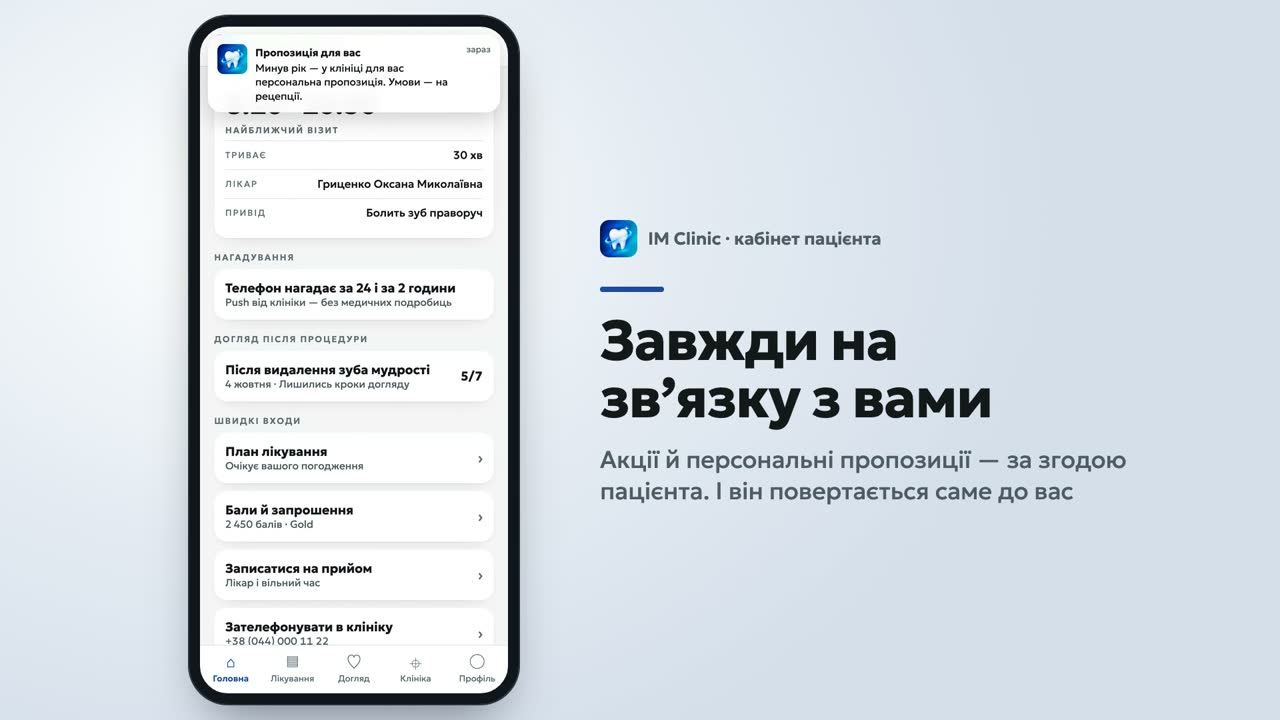
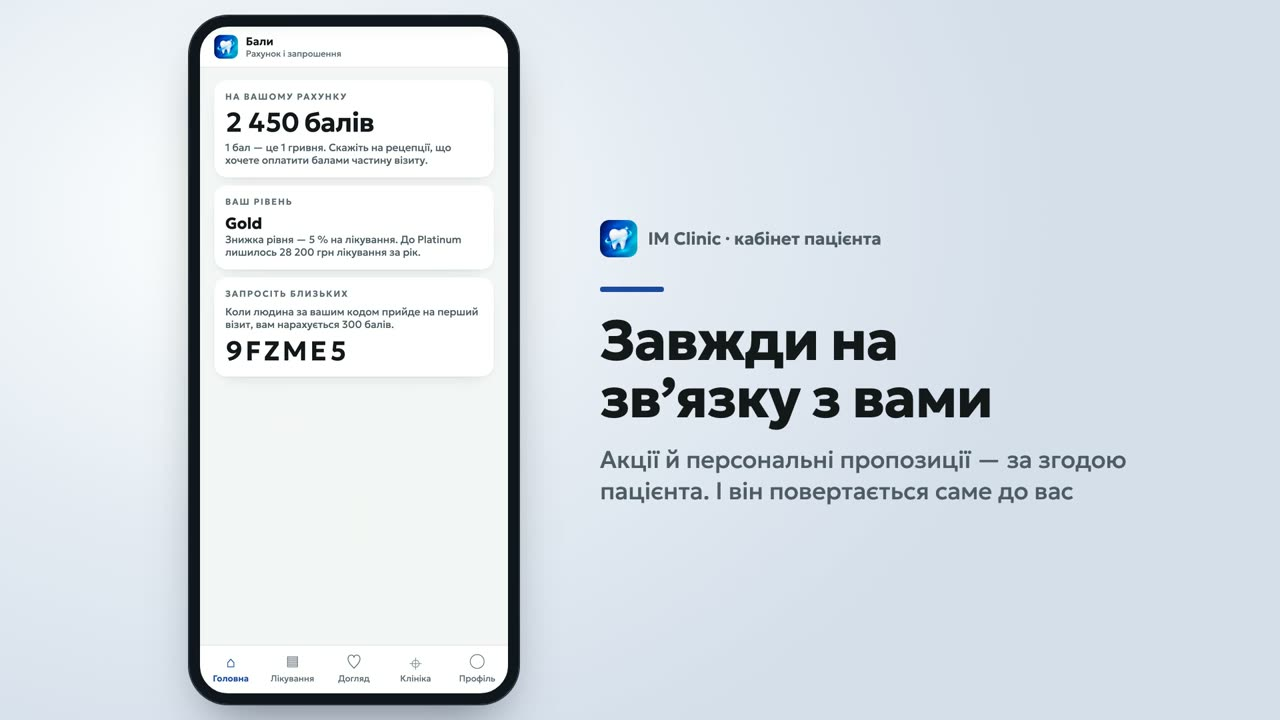
Промо IM Clinic: нові кліпи QR (планшет) і фінальної усмішки, озвучка 00–10, прев'ю 98-секундної версії

diff --git a/video/previews/README.md b/video/previews/README.md
@@ -1,6 +1,12 @@
 # Прев'ю промо IM Clinic (07.10.2026)
 
-Кадри з `work/im-clinic-promo.mp4` (92,5 с), 1280×720 JPEG.
+Кадри з `work/im-clinic-promo.mp4` (98,0 с), 1280×720 JPEG.
 
-- `0b-app`, `0c-push`, `3-visit`, `5-memo`, `6-plan` — екранні сцени, перезаписані `node record.mjs` після 0f51596: плашки «Демо» немає.
-- `8-street-mid`, `8-street-end` — фінал на вулиці. Це ще **старий** `clips/scene7.mp4`, без широкої усмішки: новий дубль у Higgsfield не згенеровано, бо в сесії не було доступу до браузера.
+- `0b-app`, `0c-push` — вступ: застосунок клініки, пуш пропозиції й бали.
+- `4-qr` — після процедури адміністраторка показує QR на планшеті, Анна сканує телефоном (`clips/qr.mp4`).
+- `5-tour` — застосунок після PIN: усі функції; `6-memo`, `7-plan` — памʼятка й план лікування.
+- `8-street-mid`, `8-street-end` — фінал на вулиці (`clips/scene7.mp4`).
+
+Кліпи Higgsfield (Anna-IMClinic → GPT Image 2 стартовий кадр → Kling 3.0, 5 с, 1080p, без звуку):
+- `scene7` — дубль 1 з 4: широка щира усмішка з природними зубами всі 5 с, без рук у кадрі; у дубля 2 псевдотекст на табличці й гримаса наприкінці. Старий кліп — `clips/scene7-old.mp4`.
+- `qr` — дубль 1 з 2: телефон наведено на планшет, адміністраторка усміхається; у дубля 2 телефон збоку від планшета.
